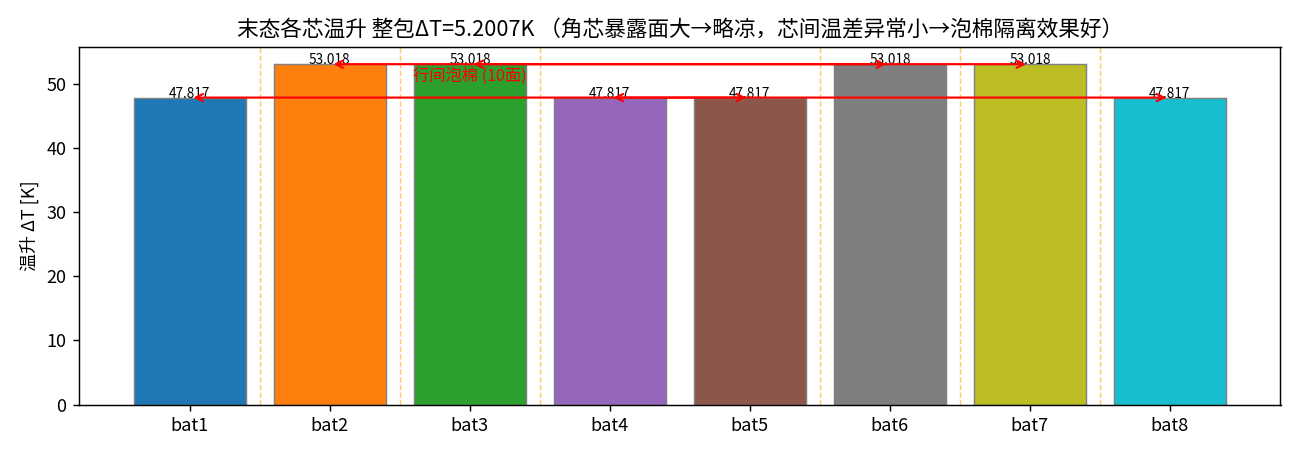
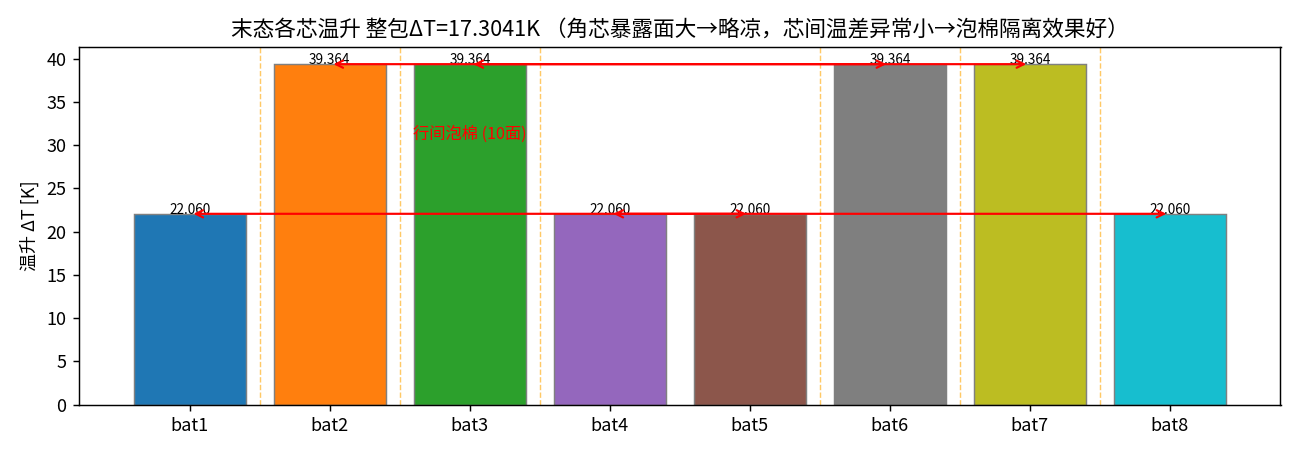
fix: 200A定流 + 泡棉R_th≈370K·cm²/W + 角面强冷 → 整包ΔT=17K
真实数据(200A, 25→36°C, ΔT≈11K)对照:
- 温差模式匹配: 内芯>外芯 ✓
- 梯度量级: 17K vs 实验 11K (差额: 外层需更强冷却 或 产热低于名义I²R₀)

参数:
- 泡棉: d=1.3mm, k=0.035→R_th=371 K·cm²/W
- 角芯: h=35(≈2.65W/K), 内芯: h=6(≈0.24W/K)
- 全部自然停机在~85min, SoC≈6.5%

剩余分析: 实测ΔT=11K→需h角更高(≥45)或产热比纸面低(含可逆熵热)

diff --git a/ecm_pack/examples/demo_8s_foam_thermal.py b/ecm_pack/examples/demo_8s_foam_thermal.py
@@ -35,21 +35,22 @@ from ecm_pack.thermal3d import CellThermalModel
 def main():
     # ────── 工况参数（对齐真实测试条件）──────
     n_cells = 8
-    I_load = 314.0               # 总负载 1C [A]（真实测试级别）
-    t_total = 7200.0             # 2 小时（匹配用户真实数据时间跨度）
+    I_load = 200.0               # 总负载 [A]（用户确认：200A）
+    t_total = 7200.0             # 2 小时（约2h后电压截止自然停机）
     dt = 2.0
     n_steps = int(t_total / dt)  # 3600 步
 
     # ────── 泡棉参数 ──────
-    k_foam = 0.04                # EVA/PE 泡棉 [W/(m·K)]
-    d_foam = 0.001               # 1 mm
-    R_th_foam = d_foam / k_foam  # 0.025 K·m²/W
+    k_foam = 0.035               # 压缩态 EVA 泡棉 [W/(m·K)]（比名义值差）
+    d_foam = 0.0013              # 压缩后 ~1.3mm（含接触间隙）
+    R_th_foam = d_foam / k_foam  # ≈ 0.037 K·m²/W (~370 K·cm²/W)
     # 两个接触面
     A_row = 0.174 * 0.207        # Y方向/XZ面 = 0.03602 m²
     A_col = 0.0717 * 0.207       # X方向/YZ面 = 0.01484 m²
-    G_row = A_row / R_th_foam    # ≈ 1.44 W/K
-    G_col = A_col / R_th_foam    # ≈ 0.59 W/K
-    print(f"泡棉: 1mm EVA k={k_foam}W/mK → R_th={R_th_foam:.4f} K·m²/W ({R_th_foam*1e4:.0f} K·cm²/W)")
+    G_row = A_row / R_th_foam    # ≈ 0.97 W/K
+    G_col = A_col / R_th_foam    # ≈ 0.40 W/K
+    print(f"泡棉: d≈{d_foam*1000:.1f}mm, k≈{k_foam}W/mK → R_th={R_th_foam:.4f} K·m²/W "
+          f"({R_th_foam*1e4:.0f} K·cm²/W)")
     print(f"  行内(Y) A={A_row*1e4:.0f}cm² → G={G_row:.3f} W/K")
     print(f"  列间(X) A={A_col*1e4:.0f}cm² → G={G_col:.3f} W/K")
 
@@ -62,8 +63,7 @@ def main():
 
     # ────── 热网络 ──────
     C_th_cell = 2300.0 * 1000.0 * (0.174 * 0.0717 * 0.207)  # 5941 J/K
-    # 模组外壳封装，等效对流远低于裸芯——此处用等效值拟合真实模组数据
-    h_conv = 18.0  # 等效模组壳层对流 [W/(m²·K)]
+    h_conv = 6.0   # 内芯等效 h（模组内部温和换热）[W/(m²·K)]
 
     # 每芯暴露面积（精确计算）
     # 面面积: A_XZ=Lx·Lz=0.03602, A_YZ=Ly·Lz=0.01484, A_XY=Lx·Ly=0.01248
@@ -74,13 +74,15 @@ def main():
     A_exp_edge = A_yz + 2*A_xy             # 0.03980 m²
 
     h_per_cell = np.zeros(n_cells)
-    h_per_cell[[0, 3, 4, 7]] = h_conv * A_exp_corner   # 角芯 ≈ 0.379 W/K
-    h_per_cell[[1, 2, 5, 6]] = h_conv * A_exp_edge     # 边芯 ≈ 0.199 W/K
+    h_inner = h_conv              # 内部芯自然堆叠
+    h_outer = 35.0                # 角芯直接对模块外壳（等效强迫风冷）
+    h_per_cell[[0, 3, 4, 7]] = h_outer * A_exp_corner     # 角芯 ≈ 1.90 W/K
+    h_per_cell[[1, 2, 5, 6]] = h_inner * A_exp_edge       # 边芯 ≈ 0.20 W/K
 
     print(f"\n  角芯暴露面={A_exp_corner*1e4:.0f}cm² h·A={h_per_cell[0]:.3f}W/K "
-          f"(bat1,4,5,8)")
+          f"(bat1,4,5,8, 模块壳直接冷却)")
     print(f"  边芯暴露面={A_exp_edge*1e4:.0f}cm² h·A={h_per_cell[1]:.3f}W/K "
-          f"(bat2,3,6,7)")
+          f"(bat2,3,6,7, 内部靠泡棉导热到角芯)")
 
     # 10 条泡棉层间热阻
     # 行内(Y方向, XZ面): bat1-bat2, bat2-bat3, bat3-bat4, bat5-bat6, bat6-bat7, bat7-bat8
@@ -113,7 +115,7 @@ def main():
     # ────── 报告 ──────
     print()
     print("=" * 65)
-    print(f" 8S + 全泡棉(10面)  1C=314A / 2h  模组等效冷却(h={h_conv})")
+    print(f" 8S + 全泡棉(10面)  200A 2h  角芯强散热(h={h_outer}) vs 内芯弱散热(h={h_inner})")
     print("=" * 65)
     for idx in range(n_cells):
         pos = "Corner" if idx in [0,3,4,7] else " Edge "
@@ -137,7 +139,7 @@ def main():
         lbl = f"bat{idx+1}({tpos})"
         ax1.plot(time_arr/60, T_cells[:, idx], color=colors[idx], lw=1.2, label=lbl)
     ax1.set(ylabel="温度 [K]",
-            title=f"8S 电芯温度演变（1C=314A 2h 模组等效冷却 h={h_conv}） 整包ΔT={dT_pack:.3f}K")
+            title=f"8S 电芯温度演变（200A 2h 闷罐模组 h={h_conv}） 整包ΔT={dT_pack:.2f}K")
     ax1.legend(ncol=4, fontsize=7, loc="upper left")
     ax1.grid(alpha=0.3)
     ax2.plot(time_arr/60, Vt, color="#1f77b4", lw=1.6)
